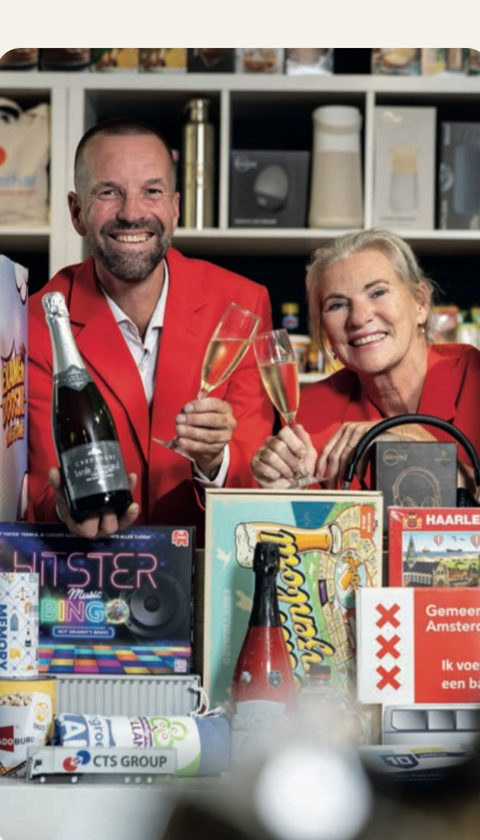
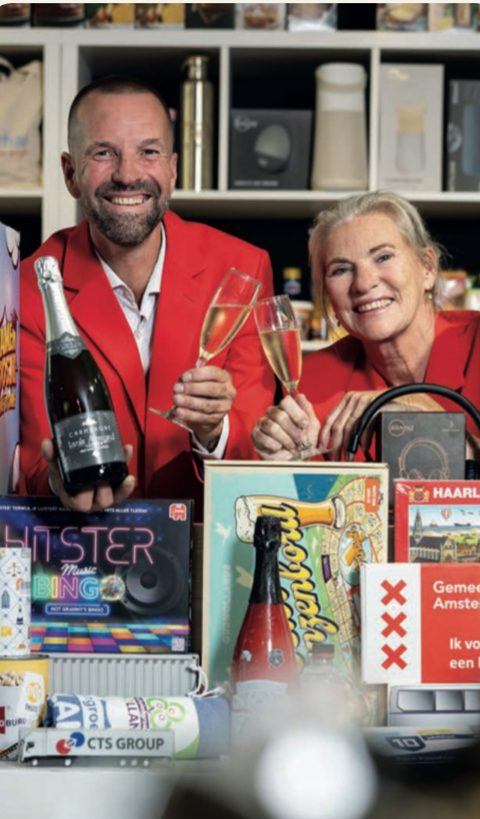
Kadoburo: foto's in verhouding
Claude-Session: https://claude.ai/code/session_01U4sYEF9LnTAPiF1NZAWbWr

diff --git a/kadoburo/index.html b/kadoburo/index.html
@@ -167,6 +167,7 @@ td small{display:block;font-size:12.5px;color:var(--muted);margin-top:2px}
 
 
 /* beeld */
+.mob img,.contact img,.ovr img{height:auto}
 .eg{display:grid;gap:22px;align-items:start}
 @media (min-width:900px){.eg{grid-template-columns:1fr 300px}}
 .mob{margin:0;background:var(--blue);background-image:radial-gradient(circle,rgba(255,255,255,.32) 1.4px,transparent 1.8px);background-size:20px 20px;border-radius:24px;padding:22px 22px 16px;text-align:center}
@@ -208,7 +209,7 @@ td small{display:block;font-size:12.5px;color:var(--muted);margin-top:2px}
 /* contact en afspraak */
 .cgrid{display:grid;gap:22px;margin-top:22px}
 @media (min-width:980px){.cgrid{grid-template-columns:300px 1fr}}
-.contact{background:var(--blue4);border-radius:22px;padding:18px;display:flex;flex-direction:column;gap:12px}
+.contact{align-self:start;background:var(--blue4);border-radius:22px;padding:18px;display:flex;flex-direction:column;gap:12px}
 .contact img{width:100%;max-width:220px;display:block;margin:0 auto}
 @media (min-width:980px){.contact img{max-width:300px}}
 .contact b{font:800 22px "Host Grotesk",sans-serif;color:var(--head)}
@@ -334,7 +335,7 @@ footer .claim{font:800 18px "Host Grotesk",sans-serif;color:var(--head)}
 
     <h3 style="font-size:26px;margin:40px 0 14px">En dan een vraag aan jullie</h3>
     <div class="vraag">
-    <figure class="ovr"><img src="media/overons.jpg" alt="Patrick en Lonneke in de showroom, van de Over ons-pagina" loading="lazy" width="480" height="840"><figcaption>Van jullie Over ons-pagina.</figcaption></figure>
+    <figure class="ovr"><img src="media/overons.jpg" alt="Patrick en Lonneke in de showroom, van de Over ons-pagina" loading="lazy" width="480" height="820"><figcaption>Van jullie Over ons-pagina.</figcaption></figure>
     <div>
     <p style="max-width:64ch;color:#2A3B57;margin-bottom:16px">Op jullie Over ons-pagina noemen jullie deze producten. In de shop vinden we ze niet terug: geen van de 467 producten is van geredde of restproducten gemaakt.</p>
     <div class="trio">
